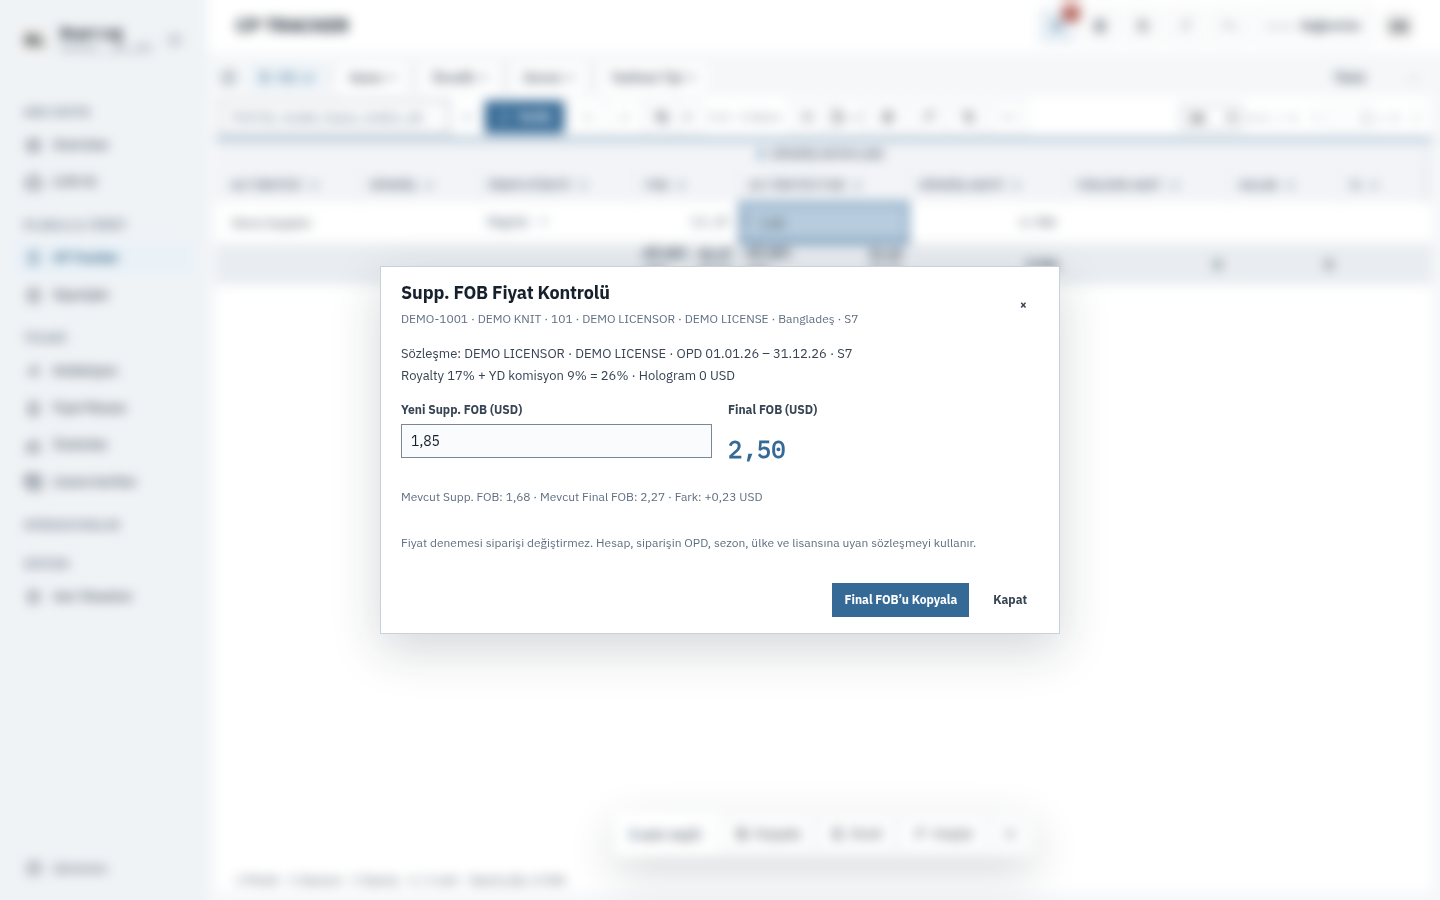
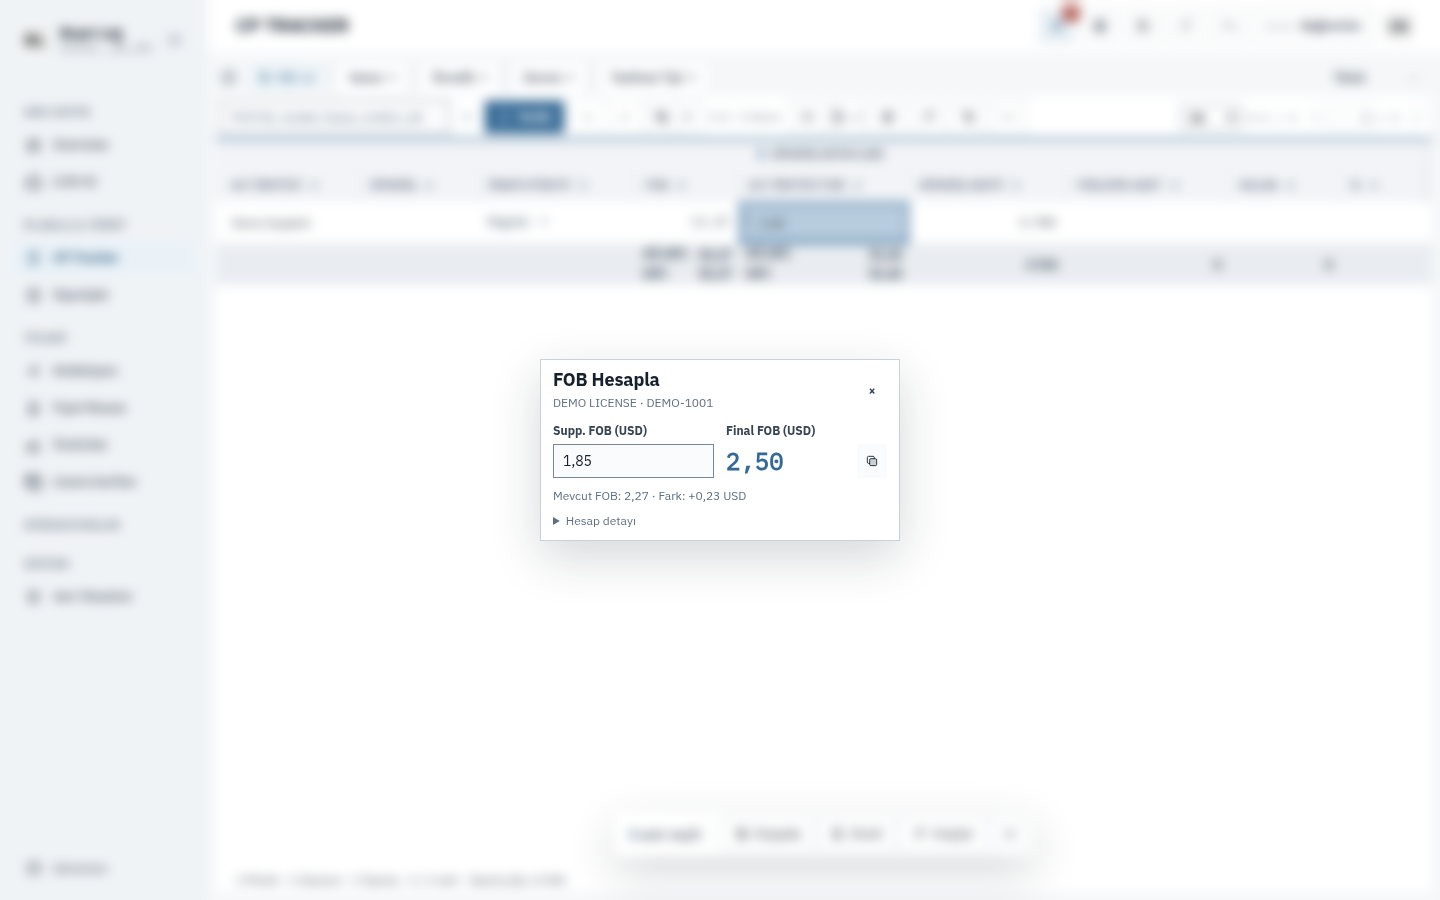
ui: compact the supplier FOB calculator

diff --git a/resources/app/public/license-royalty-commissions.js b/resources/app/public/license-royalty-commissions.js
@@ -260,13 +260,12 @@
     const cost=value=>value==null?'—':Number(value).toLocaleString(locale,{maximumFractionDigits:3});
     const overlay=document.createElement('div');overlay.id='_suppFobPricePreview';overlay.className='warnOverlay blMotionOverlay';overlay.dataset.uiMigrated='dialog';
     overlay.innerHTML=`<div class="modalCard suppFobPreviewCard" role="dialog" aria-modal="true" aria-labelledby="_suppFobPreviewTitle" aria-describedby="_suppFobPreviewHelp">
-      <div class="suppFobPreviewHead"><div><div class="modalTitle" id="_suppFobPreviewTitle">${T('Supp. FOB Fiyat Kontrolü','Supp. FOB Price Check')}</div><div class="suppFobPreviewContext" data-preview-context></div></div><button type="button" class="pricingRuleBtn ghost" data-preview-close aria-label="${T('Kapat','Close')}">×</button></div>
+      <div class="suppFobPreviewHead"><div><div class="modalTitle" id="_suppFobPreviewTitle">${T('FOB Hesapla','FOB Calculator')}</div><div class="suppFobPreviewContext" data-preview-context></div></div><button type="button" class="pricingRuleBtn ghost iconOnly" data-preview-close aria-label="${T('Kapat','Close')}">×</button></div>
       <div class="suppFobPreviewBody">
-        <div class="suppFobPreviewContract" data-preview-contract></div>
-        <div class="suppFobPreviewGrid"><div class="pricingRuleField"><label for="_suppFobPreviewInput">${T('Yeni Supp. FOB (USD)','New Supp. FOB (USD)')}</label><input id="_suppFobPreviewInput" inputmode="decimal" autocomplete="off" aria-describedby="_suppFobPreviewStatus"></div><div class="pricingRuleField"><label for="_suppFobPreviewFinal">Final FOB (USD)</label><output id="_suppFobPreviewFinal" for="_suppFobPreviewInput" aria-live="polite">—</output></div></div>
+        <div class="suppFobPreviewGrid"><div class="pricingRuleField"><label for="_suppFobPreviewInput">Supp. FOB (USD)</label><input id="_suppFobPreviewInput" inputmode="decimal" autocomplete="off" aria-describedby="_suppFobPreviewStatus"></div><div class="pricingRuleField"><label for="_suppFobPreviewFinal">Final FOB (USD)</label><div class="suppFobPreviewResult"><output id="_suppFobPreviewFinal" for="_suppFobPreviewInput" aria-live="polite">—</output><button type="button" class="pricingRuleBtn ghost iconOnly" data-preview-copy title="${T('Final FOB’u Kopyala','Copy Final FOB')}" aria-label="${T('Final FOB’u Kopyala','Copy Final FOB')}"><svg class="ic" aria-hidden="true"><use href="#i-copy"/></svg></button></div></div></div>
         <div class="suppFobPreviewComparison" data-preview-comparison></div><div class="suppFobPreviewStatus" id="_suppFobPreviewStatus" role="status"></div>
-        <p class="suppFobPreviewHelp" id="_suppFobPreviewHelp">${T('Fiyat denemesi siparişi değiştirmez. Hesap, siparişin OPD, sezon, ülke ve lisansına uyan sözleşmeyi kullanır.','Price trials do not change the order. The calculation uses the contract matching the order’s OPD, season, country and license.')}</p>
-      </div><div class="suppFobPreviewFoot"><button type="button" class="pricingRuleBtn tonal" data-preview-copy>${T('Final FOB’u Kopyala','Copy Final FOB')}</button><button type="button" class="pricingRuleBtn ghost" data-preview-close>${T('Kapat','Close')}</button></div>
+        <details class="suppFobPreviewDetails"><summary tabindex="0">${T('Hesap detayı','Calculation details')}</summary><div class="suppFobPreviewContract" data-preview-contract></div><p class="suppFobPreviewHelp" id="_suppFobPreviewHelp">${T('Fiyat denemesi siparişi değiştirmez. Hesap, siparişin OPD, sezon, ülke ve lisansına uyan sözleşmeyi kullanır.','Price trials do not change the order. The calculation uses the contract matching the order’s OPD, season, country and license.')}</p></details>
+      </div>
     </div>`;
     const input=overlay.querySelector('#_suppFobPreviewInput'),output=overlay.querySelector('#_suppFobPreviewFinal'),status=overlay.querySelector('#_suppFobPreviewStatus'),copy=overlay.querySelector('[data-preview-copy]');
     const initial=parseSuppFobPreviewValue(currentRow()['Supp. FOB']);input.value=initial==null?'':String(initial).replace('.',appLang==='en'?'.':',');
@@ -277,14 +276,17 @@
       const current=currentRow(),preview=suppFobPricePreview(current,input.value),rule=preview.rule;
       finalFob=preview.finalFob;output.textContent=format(finalFob);copy.disabled=finalFob==null;
       input.setAttribute('aria-invalid',preview.error==='value'?'true':'false');
-      overlay.querySelector('[data-preview-context]').textContent=[current['Order Code'],current['Model Name'],current['C.Code'],current.Licensor,current.License,current.Country,current.Season].filter(Boolean).join(' · ');
+      const context=overlay.querySelector('[data-preview-context]');
+      context.textContent=[current.License,current['Order Code']].filter(Boolean).join(' · ');
+      context.title=[current['Order Code'],current['Model Name'],current['C.Code'],current.Licensor,current.License,current.Country,current.Season].filter(Boolean).join(' · ');
       overlay.querySelector('[data-preview-contract]').textContent=rule
         ?`${T('Sözleşme','Contract')}: ${rule.licensor} · ${rule.license} · OPD ${pricingRuleDateRangeLabel(rule)} · ${normalizePricingRuleSeasons(rule.seasons).length?pricingRuleSeasonLabel(rule):T('Tüm Sezonlar','All Seasons')}\nRoyalty ${rate(rule.royalty)} + ${preview.group==='TR'?'TR':T('YD','Overseas')} ${T('komisyon','commission')} ${rate(commission(rule,current.Country))} = ${rate(effectiveRoyalty(rule,current.Country))} · Hologram ${cost(hologramFor(rule,current.Country))} USD`
         :turknorm(current.Licensor)==='DTR'?T('DTR: Royalty sözleşmesi yok; Final FOB = Supp. FOB.','DTR: No royalty contract; Final FOB = Supp. FOB.'):'';
       const delta=preview.delta==null?'—':`${preview.delta>0?'+':''}${format(preview.delta)}`;
-      overlay.querySelector('[data-preview-comparison]').textContent=`${T('Mevcut Supp. FOB','Current Supp. FOB')}: ${format(parseSuppFobPreviewValue(current['Supp. FOB']))} · ${T('Mevcut Final FOB','Current Final FOB')}: ${format(parseSuppFobPreviewValue(current['FOB ($)']))} · ${T('Fark','Difference')}: ${delta} USD`;
+      overlay.querySelector('[data-preview-comparison]').textContent=`${T('Mevcut FOB','Current FOB')}: ${format(parseSuppFobPreviewValue(current['FOB ($)']))} · ${T('Fark','Difference')}: ${delta} USD`;
       const errors={row:T('Sipariş bulunamadı.','Order not found.'),country:T('Siparişin üretim ülkesi eksik; hesap yapılamıyor.','The order’s production country is missing; calculation is unavailable.'),rule:T('Bu siparişle eşleşen lisans sözleşmesi yok. License Royalty Hesapları altında kontrol edin.','No license contract matches this order. Check License Royalty Calculations.'),value:T('Sıfır veya pozitif bir fiyat girin (örn. 1,85).','Enter a zero or positive price (e.g. 1.85).'),invalid:T('Ülke komisyonu tanımsız veya sözleşme değerleri geçersiz. Toplam oran %100’den küçük olmalı.','The country commission is undefined or contract values are invalid. The total rate must be below 100%.')};
       status.textContent=errors[preview.error]||'';
+      status.hidden=!preview.error;
     }
     input.addEventListener('input',renderPreview);
     overlay.querySelectorAll('[data-preview-close]').forEach(button=>button.addEventListener('click',close));

diff --git a/resources/app/public/app.css b/resources/app/public/app.css
@@ -1,16 +1,16 @@
 /* Manifest shared layout. Appearance: ui-tokens.css / ui-components.css. */
 .ic{width:1.1em;height:1.1em;display:inline-block;vertical-align:-0.18em;flex-shrink:0;}
-.suppFobPreviewCard{width:min(94vw,680px);max-height:90vh;display:flex;flex-direction:column;padding:0;}
-.suppFobPreviewHead,.suppFobPreviewFoot{display:flex;align-items:center;justify-content:space-between;gap:12px;padding:16px 20px;}
+.suppFobPreviewCard{width:min(94vw,360px);max-height:90vh;display:flex;flex-direction:column;padding:0;}
+.suppFobPreviewHead{display:flex;align-items:center;justify-content:space-between;gap:8px;padding:10px 12px;}
 .suppFobPreviewHead>div{min-width:0;}
-.suppFobPreviewContext{margin-top:6px;overflow-wrap:anywhere;}
-.suppFobPreviewBody{padding:0 20px 16px;overflow:auto;display:grid;gap:14px;}
+.suppFobPreviewContext{margin-top:3px;overflow:hidden;white-space:nowrap;text-overflow:ellipsis;}
+.suppFobPreviewBody{padding:0 12px 10px;overflow:auto;display:grid;gap:8px;}
 .suppFobPreviewContract{white-space:pre-line;overflow-wrap:anywhere;}
-.suppFobPreviewGrid{display:grid;grid-template-columns:repeat(2,minmax(0,1fr));gap:16px;}
-.suppFobPreviewGrid output{display:block;padding:8px 0;min-height:var(--ui-control-height);}
-.suppFobPreviewHelp{margin:0;}
-.suppFobPreviewFoot{justify-content:flex-end;flex-wrap:wrap;}
-@media(max-width:520px){.suppFobPreviewGrid{grid-template-columns:1fr;}}
+.suppFobPreviewGrid{display:grid;grid-template-columns:repeat(2,minmax(0,1fr));gap:12px;}
+.suppFobPreviewResult{display:flex;align-items:center;justify-content:space-between;gap:6px;min-height:34px;}
+.suppFobPreviewGrid output{display:block;min-width:0;overflow-wrap:anywhere;}
+.suppFobPreviewDetails summary{cursor:pointer;}
+.suppFobPreviewDetails .suppFobPreviewContract,.suppFobPreviewHelp{margin:8px 0 0;}
 html{scroll-behavior:auto;max-width:100%;overflow-x:hidden}
 *,*::before,*::after{box-sizing:border-box}
 body{margin:0;max-width:100%;overflow-x:clip;-webkit-font-smoothing:antialiased;padding-left:var(--ui-rail-width);}

diff --git a/resources/app/public/ui-components.css b/resources/app/public/ui-components.css
@@ -1,6 +1,7 @@
 :where(body,body *){border:0;border-radius:var(--ui-radius);box-shadow:none;text-shadow:none;}
 .suppFobPreviewContext,.suppFobPreviewComparison,.suppFobPreviewHelp{font-size:var(--ui-font-xs);color:var(--ui-text-muted);}
-.suppFobPreviewContract{font-size:var(--ui-font-sm);line-height:1.7;color:var(--ui-text-secondary);}
+.suppFobPreviewContract{font-size:var(--ui-font-xs);line-height:1.5;color:var(--ui-text-secondary);}
+.suppFobPreviewDetails summary{font-size:var(--ui-font-xs);color:var(--ui-text-muted);}
 .suppFobPreviewGrid output{font-size:var(--ui-font-xl);font-family:var(--ui-font-mono);font-weight:600;color:var(--ui-accent);}
 .suppFobPreviewStatus{font-size:var(--ui-font-sm);color:var(--ui-danger);}
 :where(body,body *,body *::before,body *::after){animation:none!important;transition:none!important;scroll-behavior:auto!important;}
